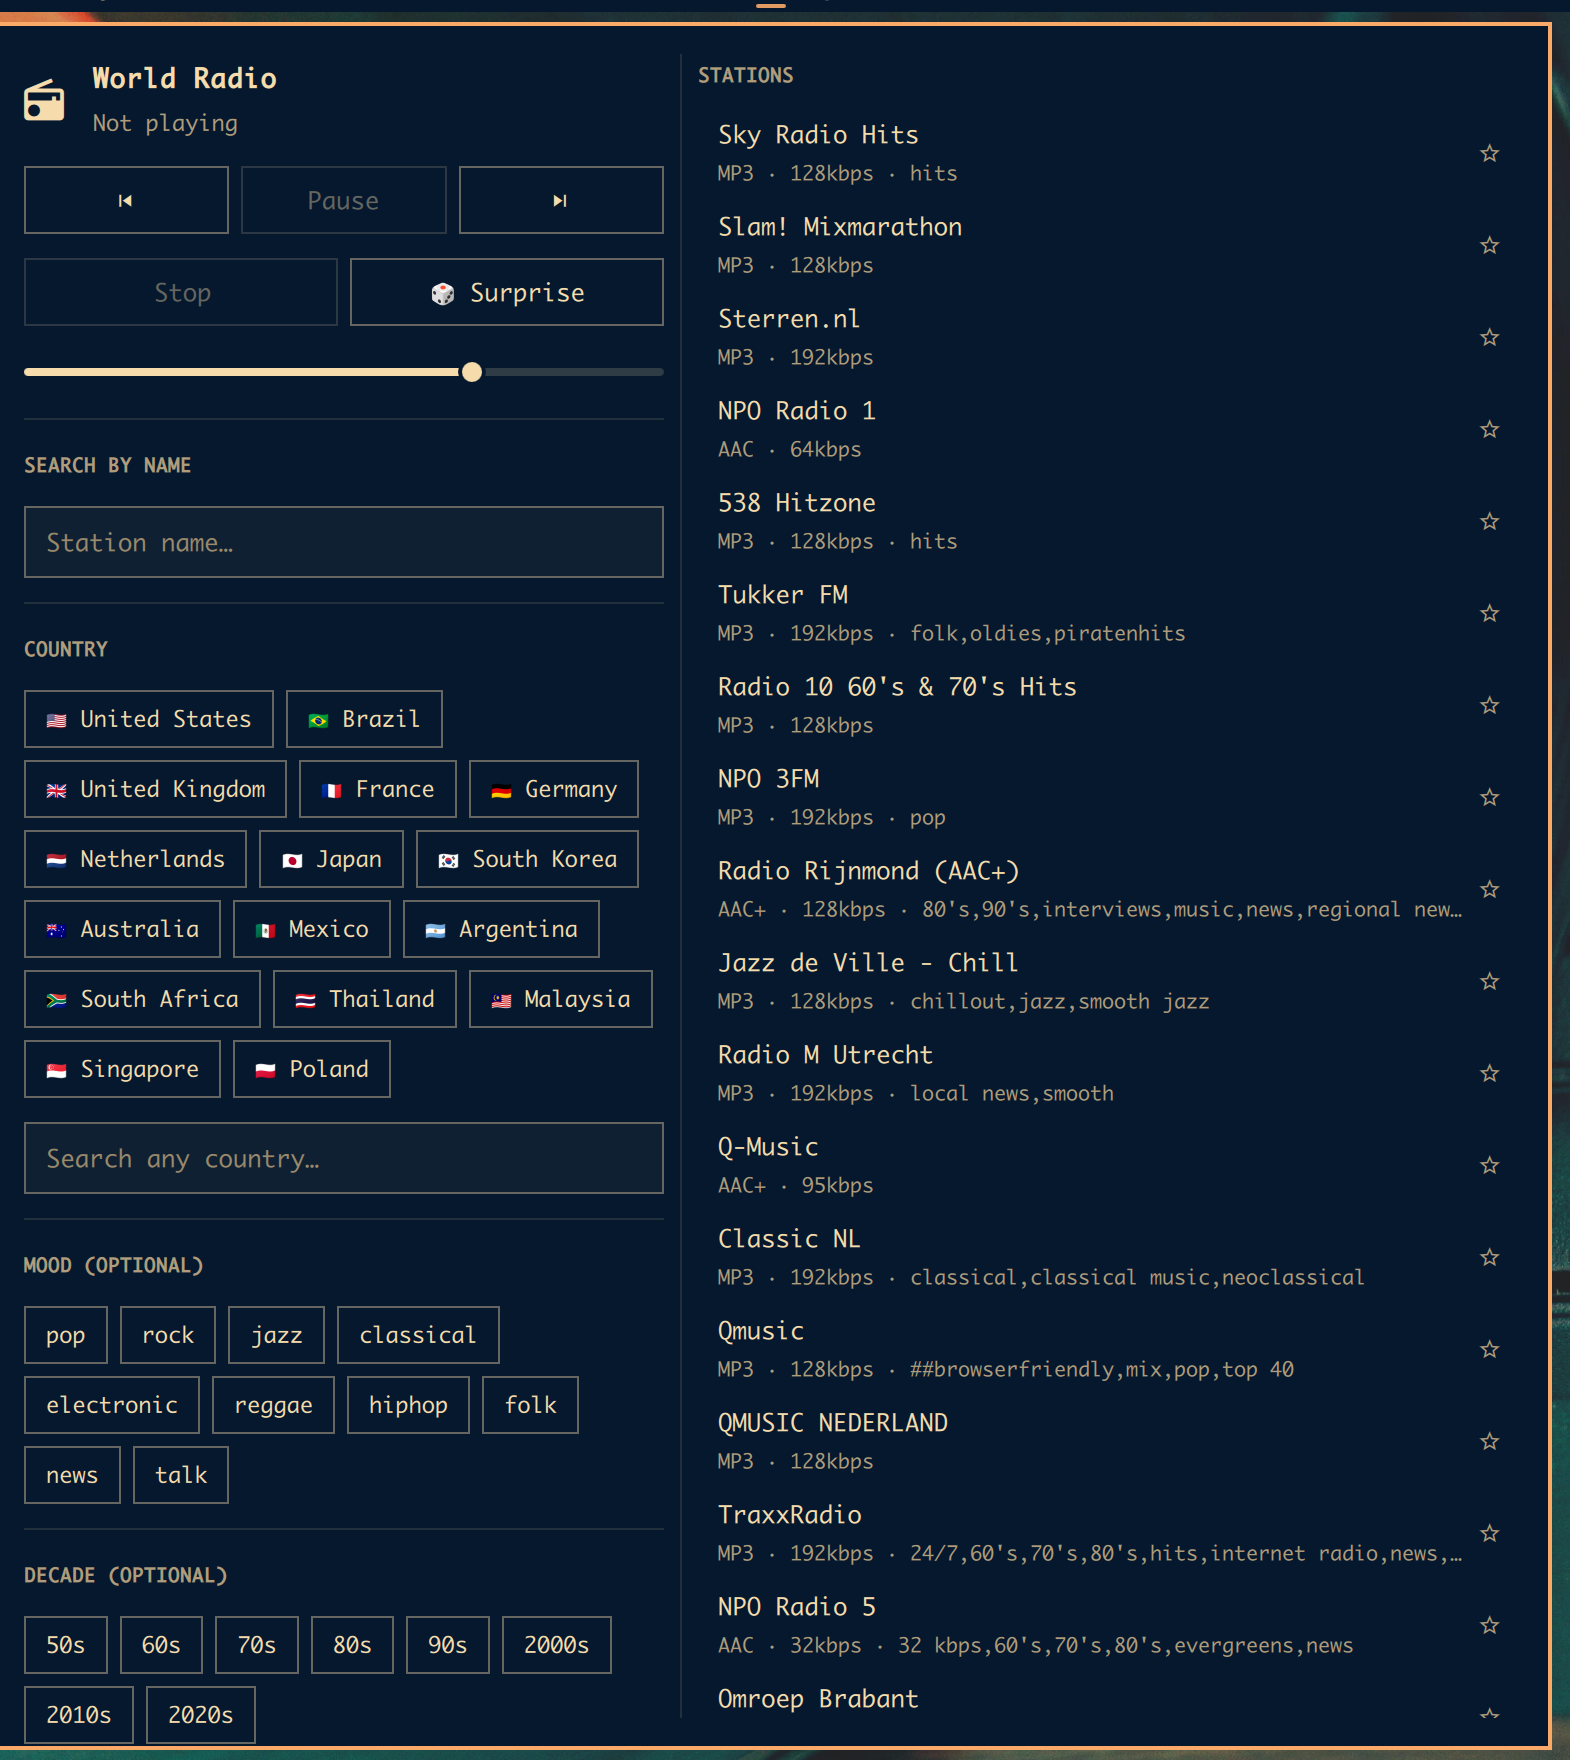
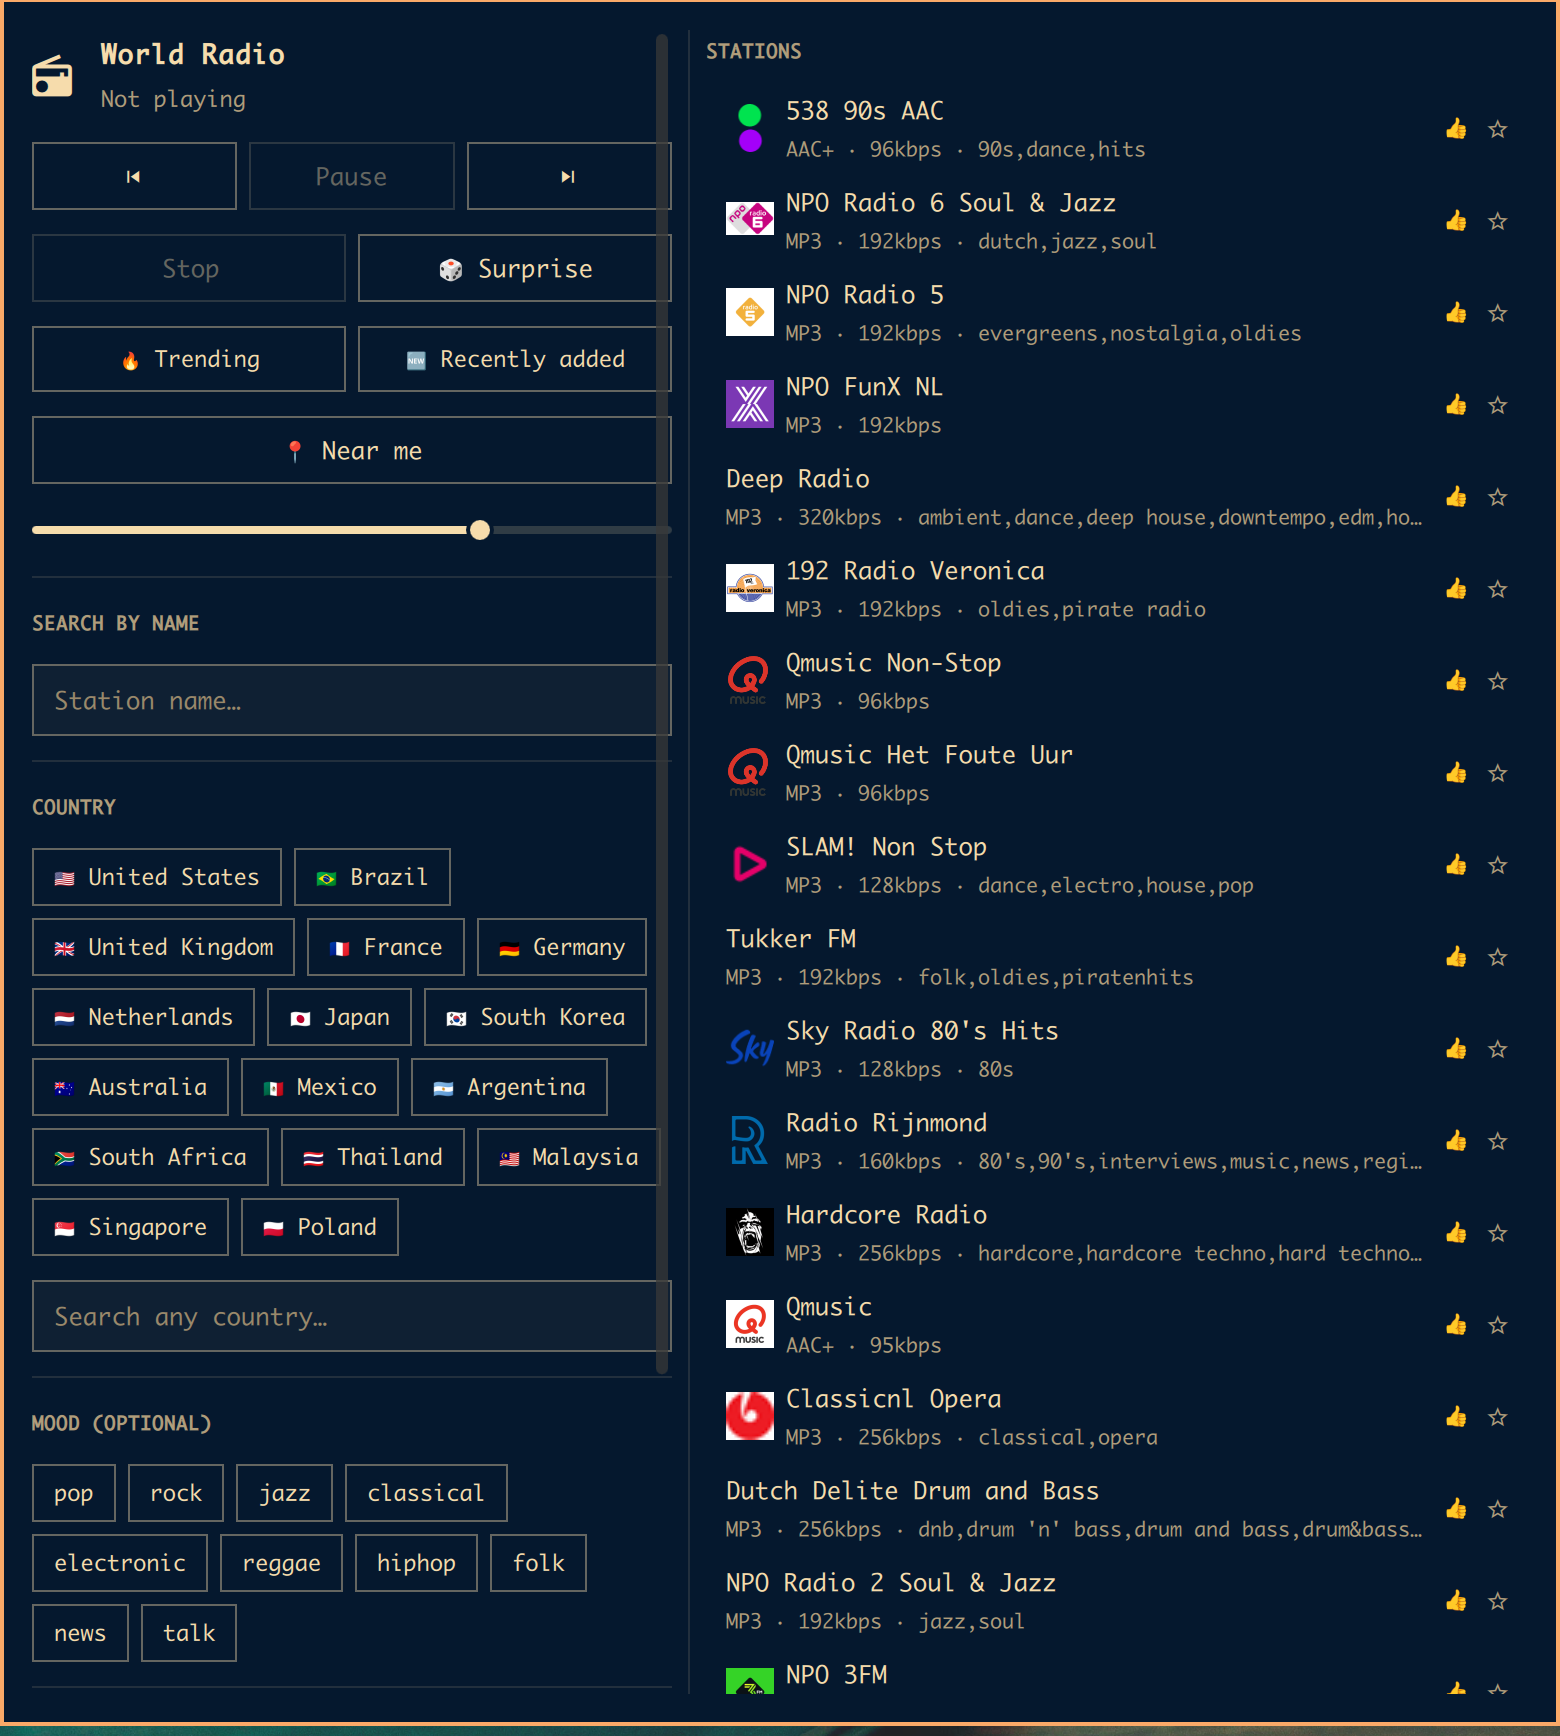
Update README and preview screenshot for v1.2.0's new features
Documents everything shipped this session: language filter, Near me
geolocation, Trending/Recently-added sort, station favicons, the vote
button, loudness normalization, and the buffering indicator. Also notes
the left column now scrolls independently.

New preview.png captured live from the actual running plugin (Netherlands
selected), showing the new controls, station favicons, and vote buttons
in place; also confirms the scrolling fix from a036994 — the screenshot
shows the left column's scrollbar with Trending/Near-me controls above
the fold.

Also includes docs/v3-feature-research.md, live-verified research on
further feature ideas beyond everything already shipped (a homepage
link and a vote-count display look like the best small next steps; an
mpv audio-device override was investigated and found likely redundant
with Omarchy's own first-party Audio panel).

Claude-Session: https://claude.ai/code/session_01Kek5K3fQUD9py3vwhS86ru

diff --git a/docs/v3-feature-research.md b/docs/v3-feature-research.md
@@ -1,0 +1,158 @@
+# v3 feature research
+
+Follow-up to `docs/v2-feature-research.md` and `docs/v2-remaining-feature-research.md`,
+both of which are now fully shipped (search by name, favorites, favicon,
+loudnorm, language filter, Trending/Recently-added, Near me geolocation,
+buffering indicator, vote button). This doc looks for genuinely new ideas
+beyond those two, against the same primary sources those docs used, plus
+mpv's and Quickshell's own docs/source and a fresh read of the current
+`Panel.qml` to confirm nothing here is already implemented.
+
+Same rule as the prior docs: primary sources only — live API calls, a
+hands-on mpv JSON IPC test on this machine, and this machine's actual
+installed Quickshell/Omarchy shell source — not brainstormed from memory.
+
+---
+
+## Radio Browser API — unused fields and endpoints
+
+Verified live against `https://de1.api.radio-browser.info`.
+
+### 1. Station homepage link — **small**
+
+Every station object returned by `/json/stations/search` (and
+`/json/stations/byuuid`) already includes a `homepage` field — confirmed
+live: `"homepage":"https://www.rtl.fr/"` on a real station. This plugin
+already receives and discards it, exactly the same situation the favicon
+field was in before item #1 of the original research doc. A small "🔗"
+link next to the vote/star buttons, opening `row.homepage` via QML's
+built-in `Qt.openUrlExternally()`, would let a listener visit a station's
+own site — no new fetch, no new endpoint, no process spawn (this is a
+plain Qt global function, not a shell-out). No first-party Omarchy plugin
+was found using `Qt.openUrlExternally()` or shelling out to `xdg-open`
+(grepped `/usr/share/omarchy/shell/plugins/*/*.qml`), but `xdg-open` is
+present on this machine (`/usr/bin/xdg-open`) as a fallback if
+`Qt.openUrlExternally()` ever proves unavailable in this Quickshell build
+— not verified further since the Qt API is the simpler, dependency-free
+path.
+
+**Implementation sketch**: add `homepage: String((s && s.homepage) || "")`
+to the row mapping in `stationsProc`'s parser (same place `favicon` was
+added), validate it's `http(s)://` shaped the same way `favicon` already
+is (this plugin already treats API-supplied URLs as untrusted), and add a
+small "🔗" `Text` + `MouseArea` in the station row delegate, visible only
+when non-empty, calling `Qt.openUrlExternally(row.homepage)`.
+
+### 2. Vote count display — **small**
+
+Every station object already includes its own `votes` count (confirmed
+live: `"votes":2155`). This plugin already reads `votes` indirectly — the
+existing "🔥 Trending" sort orders by it server-side — but never displays
+the number itself. Showing it (e.g. appended to the existing
+codec/bitrate/tags caption line, "AAC · 64kbps · 2,155 votes") would give
+the vote button's own action a visible before/after effect, and let a
+listener gauge popularity without needing to switch to Trending order.
+
+**Implementation sketch**: add `votes: Number((s && s.votes) || 0)` to the
+same row mapping, and append it to the existing caption `Text`'s joined
+string in the delegate (`[row.codec, row.bitrate ? ... : "", row.tags]`
+already uses `.filter(...).join(" · ")` — one more entry). No new fetch.
+
+### 3. Minor search filters: `is_https`, `bitrateMin` — **small, low priority**
+
+Both confirmed live and working: `is_https=true` returns only stations
+whose `url` is `https://` (verified: both results in a live test were
+`https://`), and `bitrateMin=256` returns only stations at or above that
+bitrate (verified: results had `bitrate: 320` and `800`). Both are
+one-line additions to `stationsProc`'s param builder, same shape as the
+existing filters. Listed as low priority because neither maps to an
+already-expressed listener need the way the other items in this doc do —
+they're technically ready, not clearly wanted.
+
+### Not pursued further
+
+`/json/stations/broken` and `/json/stations/improvable` are Radio
+Browser's own community-moderation queues (stations flagged as dead or
+needing metadata fixes) — confirmed live they return real data, but
+they're curation tooling for the directory's maintainers, not a listener-
+facing feature for this plugin. `/json/codecs` (confirmed live: AAC, MP3,
+OGG, FLAC, etc. with counts) could back a codec filter, but codec choice
+isn't a filter listeners of an internet radio app typically reason about
+the way country/language/mood already are — no clear use case found.
+
+---
+
+## mpv — unused JSON IPC properties
+
+Verified against mpv's own `input.rst` (fetched directly) and a live
+hands-on JSON IPC test against a real mpv instance on this machine (not
+just read from docs).
+
+### 4. Audio output device selection — **medium, caveat**
+
+Confirmed both in mpv's own `input.rst` and live: `get_property
+audio-device-list` over the exact JSON IPC socket this plugin already
+uses returns a real, usable array of `{name, description}` pairs (live
+result on this machine included `pipewire`, `alsa/hdmi:...`, specific
+named devices, etc.), and `audio-device` is documented read/write —
+setting it reinitializes mpv's audio output to that device.
+
+**Caveat, found while checking for existing precedent**: this machine's
+Omarchy shell already ships a first-party Audio panel
+(`/usr/share/omarchy/shell/plugins/panels/audio/`) built on
+`Quickshell.Services.Pipewire` (`Pipewire.defaultAudioSink`,
+`Pipewire.preferredDefaultAudioSink`, confirmed by reading that panel's
+own QML) — a system-wide, per-application-capable audio routing UI that
+already exists and that a Bluetooth/USB device switch already goes
+through today. Adding a *second*, mpv-specific, per-app device picker
+inside World Radio would duplicate that system control with a narrower,
+less capable mechanism (mpv's own device list, not Pipewire's live
+per-stream routing). Worth a spec only if the goal is specifically "route
+just this radio stream to a different output than my system default
+without changing it system-wide" — a real but narrow use case — not as a
+general audio-routing feature, since Omarchy already has one.
+
+### Not pursued further
+
+Playlist-related commands (`playlist-next`, `loadlist`, etc.) don't apply
+here: this plugin's mpv instance is always started with a single URL and
+`--idle=yes`, never a playlist, confirmed by reading `mpvProc`'s own
+`command:` in `Panel.qml`. ReplayGain properties exist in mpv but only
+apply to files carrying ReplayGain tags in their own metadata, which
+internet radio streams essentially never do (no fixed file, no tag store)
+— not applicable to this use case.
+
+---
+
+## Quickshell / Omarchy shell — unused local APIs
+
+Verified by reading this machine's actual installed
+`/usr/lib/qt6/qml/Quickshell/` module list and Omarchy's own first-party
+plugin source under `/usr/share/omarchy/shell/plugins/`.
+
+Beyond confirming the Pipewire precedent above (item #4's caveat), no new
+first-party Quickshell service was found with a clear, unduplicated
+listener-facing use for this specific plugin. `Quickshell.Bluetooth`
+exists but has no relevance to an internet-radio player (it's an input
+device / discovery API, not audio routing). `Quickshell.Services.Mpris`
+is already effectively covered for this plugin by the system-wide
+`mpv-mpris` integration the README already documents.
+
+---
+
+## Ranking (impact / effort)
+
+1. **Homepage link (#1)** — same near-zero-cost shape as the already-
+   shipped favicon feature: the data already arrives in every response
+   this plugin already makes, and it's a real, small, listener-visible
+   addition (visit a station's own site).
+2. **Vote count display (#2)** — equally near-zero cost, and gives the
+   existing vote button and Trending sort a visible number to look at,
+   directly reusing data already in the response.
+3. **Minor search filters (#3)** — technically ready and cheap, but no
+   clearly expressed listener need behind either one; lower priority than
+   #1/#2 for that reason alone.
+4. **Audio output device override (#4)** — real and verified, but
+   redundant with Omarchy's own first-party Pipewire-based Audio panel
+   for the common case; only worth specifying if the narrower "just this
+   stream, not system-wide" use case is actually wanted.

diff --git a/README.md b/README.md
@@ -2,11 +2,12 @@
 
 [![CI](https://github.com/Macs9319/omarchy-world-radio/actions/workflows/ci.yml/badge.svg)](https://github.com/Macs9319/omarchy-world-radio/actions/workflows/ci.yml)
 
-An [Omarchy](https://omarchy.org/) shell plugin: pick a country and (optionally) a mood
-or decade, then listen to a live internet radio station from there — a lightweight nod
-to [radiooooo.com](https://app.radiooooo.com/)'s "spin the globe" idea, built entirely on
-the open [Radio Browser](https://www.radio-browser.info/) directory rather than any
-proprietary catalog.
+An [Omarchy](https://omarchy.org/) shell plugin: pick a country, a language, or just find
+something near you — optionally narrow by mood or decade — and listen to a live internet
+radio station from there. A lightweight nod to [radiooooo.com](https://app.radiooooo.com/)'s
+"spin the globe" idea, built entirely on the open
+[Radio Browser](https://www.radio-browser.info/) directory rather than any proprietary
+catalog.
 
 ![World Radio panel](preview.png)
 
@@ -15,21 +16,35 @@ proprietary catalog.
 - **Country picker** — a curated grid of flags plus a live search over every country in
   the Radio Browser directory.
 - **Search by name** — a free-text box that filters stations by name, on its own
-  (worldwide) or AND-ed with the selected country, mood and decade. Debounced ~350ms.
+  (worldwide) or AND-ed with the selected country, mood, decade and language. Debounced
+  ~350ms.
 - **Mood and Decade filters** — optional tag chips (pop, rock, jazz, classical, 80s, 90s,
   2000s, ...) that narrow the station list; combine both at once.
+- **Language filter** — a free-text search over every language Radio Browser tracks,
+  composing with every other filter.
+- **Near me** — an IP-based geolocation filter finds stations within 50km of your
+  approximate location, no manual location entry required.
+- **Trending and Recently added** — two toggleable sort orders that reorder the current
+  list by current popularity or by recency, instead of all-time click count.
 - **Tuning dial** — Previous/Next buttons step through the current station list; a
   "🎲 Surprise" button spins a random country and station.
 - **Favorites** — star a station to pin it to the top of its list. Favorites are stored
   in `~/.local/state/omarchy/world-radio-favorites.json` and survive shell restarts.
+- **Vote** — upvote a station in the public Radio Browser directory directly from its
+  row, independently of favoriting it locally.
+- **Station favicon** — each station in the list shows its own logo, when the directory
+  has one.
 - **Live playback controls** — Play/Pause, Stop, and a volume slider, driven over mpv's
   JSON IPC socket (via Quickshell's native `Socket` type — no extra CLI dependency).
-- **Now playing** — shows the live ICY stream title when the station sends one.
+- **Loudness normalization** — mpv's bundled `loudnorm` filter evens out the wide
+  loudness swings between stations.
+- **Now playing** — shows the live ICY stream title when the station sends one, and a
+  real "Buffering… NN%" state during the connection gap or a later rebuffer.
 - **Hardware media keys / MPRIS** — mpv's system-wide config already auto-loads the
   `mpv-mpris` script, so `XF86AudioPlay/Pause/Stop` and any MPRIS-aware widget control
   the radio too, with no extra flags needed here.
-- Two-pane layout: pickers on the left, the station list gets its own full-height pane
-  on the right.
+- Two-pane layout: pickers scroll independently on the left, the station list gets its
+  own full-height pane on the right.
 
 ## Requirements
 
@@ -73,8 +88,9 @@ Click the radio icon in the bar (or bind a key, e.g. in
 o.bind("SUPER + R", "World Radio", "omarchy-shell shell toggle ronnie.worldradio")
 ```
 
-Pick a country, optionally a mood and/or decade, then click a station to play it.
-Right-click the bar icon to stop, middle-click to pause/resume.
+Pick a country, search by name, pick a language, or hit Near me — optionally add a mood
+and/or decade, or reorder the list by Trending/Recently added — then click a station to
+play it. Right-click the bar icon to stop, middle-click to pause/resume.
 
 ## Settings
 
